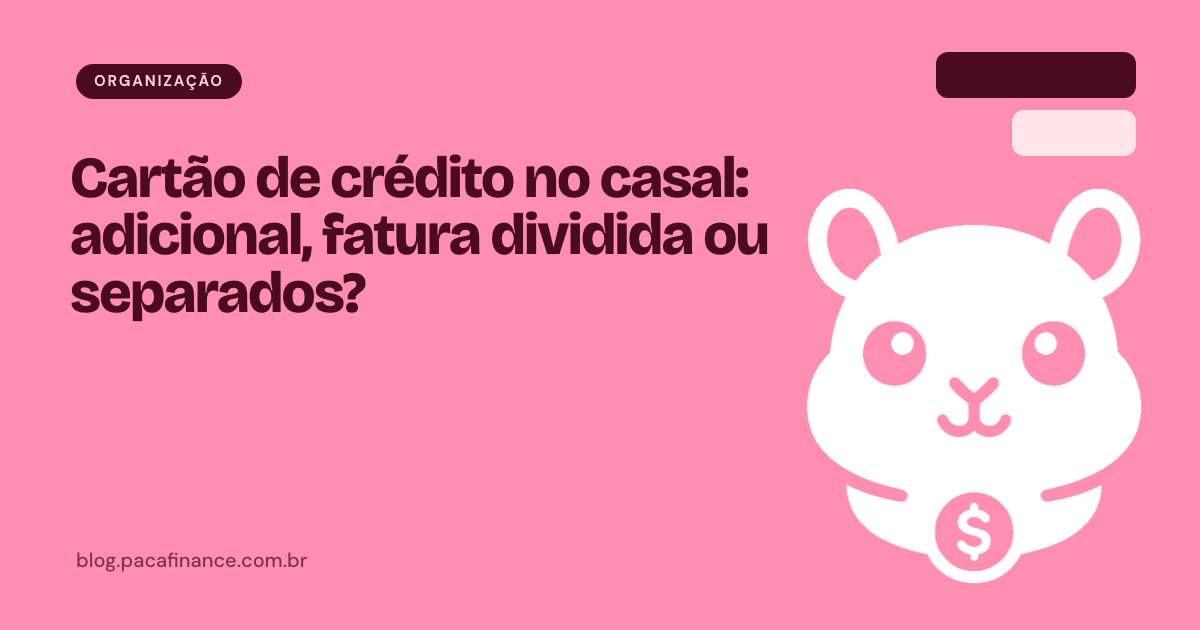
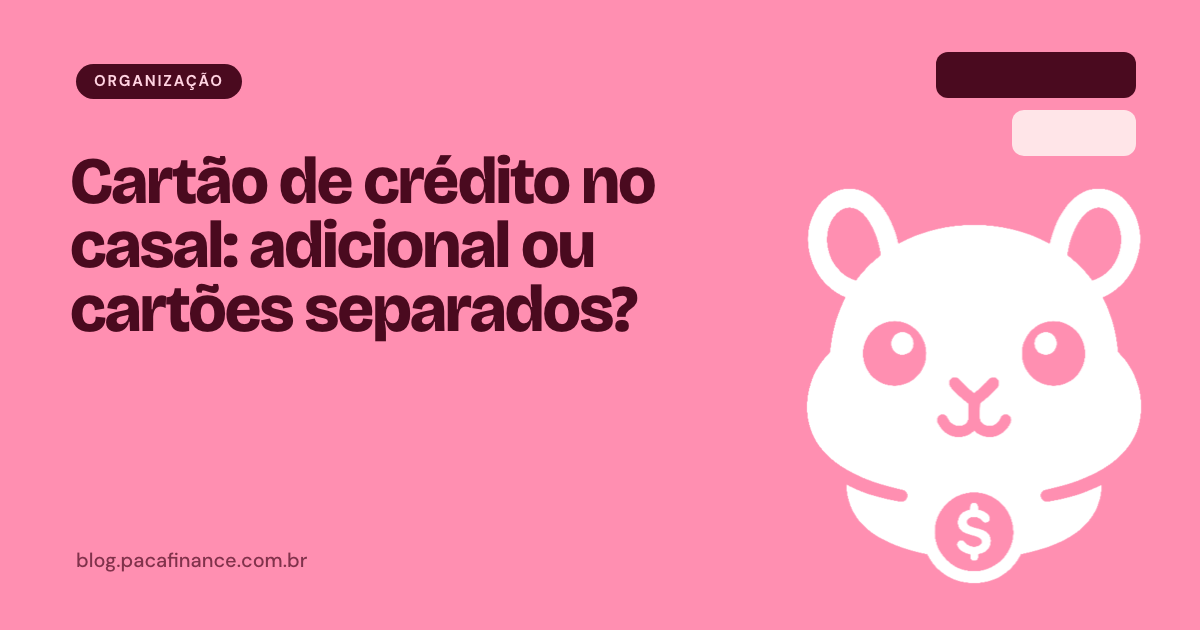
content: encurta 4 titulos para caberem no resultado de busca
Escolhidos pela dona entre as opcoes propostas. Os 4 mantem o termo de
busca; o de "quanto custa casar" ainda ganha "no Brasil", que e
modificador que as pessoas digitam.

  Um dos dois ficou desempregado: como reorganizar as financas do casal
  -> Desemprego no casal: como reorganizar as financas a dois

  Cartao de credito no casal: adicional, fatura dividida ou separados?
  -> Cartao de credito no casal: adicional ou cartoes separados?

  Reserva de emergencia para casal: quanto, onde e como construir
  -> Reserva de emergencia para casal: quanto e onde guardar

  Quanto custa casar: os numeros reais e como caber no orcamento
  -> Quanto custa casar no Brasil: os numeros reais

Cards de compartilhamento e capas regerados, porque o titulo entra na
arte do card.

ERRO DE MEDICAO CORRIGIDO NO CAMINHO: os numeros que eu vinha reportando
("17 de 18", depois "8 de 18") sairam de `${#t}` no zsh, que conta BYTES
— e cada acento em UTF-8 ocupa dois. Contando CARACTERES:

  sufixo sempre somado (como era):  17 de 18 acima de 60  <- o problema era real
  sufixo condicional (ontem):        6 de 18
  com estes 4 titulos (agora):       2 de 18, em 61 e 62

Ou seja: dois dos quatro titulos trocados nao estavam de fato acima do
corte (61 e 60 caracteres reais, nao 63 e 62). A troca segue defensavel
— sao mais curtos e leem melhor —, mas a dona decidiu com numero inflado
e isso esta registrado aqui.

Verificado: 265 testes, typecheck 7/7, build 32 paginas.

Changed region(s): [[0.0617, 0.2413, 0.6475, 0.5429]]

diff --git a/apps/blog/src/content/blog/um-dos-dois-desempregado-financas-casal.md b/apps/blog/src/content/blog/um-dos-dois-desempregado-financas-casal.md
@@ -1,5 +1,5 @@
 ---
-title: "Um dos dois ficou desempregado: como reorganizar as finanças do casal"
+title: "Desemprego no casal: como reorganizar as finanças a dois"
 description: "Quando uma renda acaba, a divisão de contas quebra. Como refazer o orçamento do casal, cortar por prioridade e proteger a relação — com as contas em R$."
 pubDate: 2026-08-29
 category: "dividir-contas"

diff --git a/apps/blog/src/content/blog/cartao-de-credito-casal.md b/apps/blog/src/content/blog/cartao-de-credito-casal.md
@@ -1,5 +1,5 @@
 ---
-title: "Cartão de crédito no casal: adicional, fatura dividida ou separados?"
+title: "Cartão de crédito no casal: adicional ou cartões separados?"
 description: "Adicional, fatura conjunta ou cartões separados com acerto por Pix? Como cada arranjo funciona, quem responde pela dívida e o que combinar antes."
 pubDate: 2026-08-31
 category: "organizacao"

diff --git a/apps/blog/src/content/blog/reserva-de-emergencia-casal.md b/apps/blog/src/content/blog/reserva-de-emergencia-casal.md
@@ -1,5 +1,5 @@
 ---
-title: "Reserva de emergência para casal: quanto, onde e como construir"
+title: "Reserva de emergência para casal: quanto e onde guardar"
 description: "Quanto o casal precisa de reserva, se vale uma ou duas, o que olhar na hora de guardar e como construir com duas rendas — com as contas em R$."
 pubDate: 2026-08-30
 category: "metas-e-sonhos"

diff --git a/apps/blog/src/content/blog/quanto-custa-casar.md b/apps/blog/src/content/blog/quanto-custa-casar.md
@@ -1,5 +1,5 @@
 ---
-title: "Quanto custa casar: os números reais e como caber no orçamento"
+title: "Quanto custa casar no Brasil: os números reais"
 description: "Quanto custa casar no Brasil, item por item, como montar o teto antes de falar com fornecedor e por que financiar a festa é das piores dívidas."
 pubDate: 2026-09-03
 category: "metas-e-sonhos"
